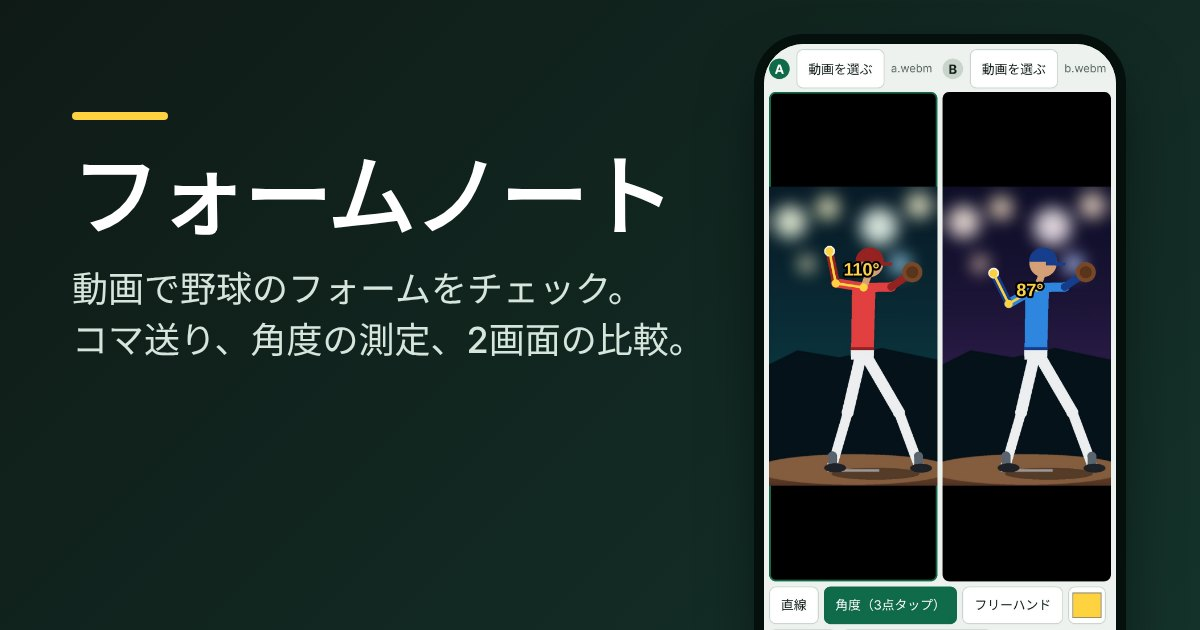
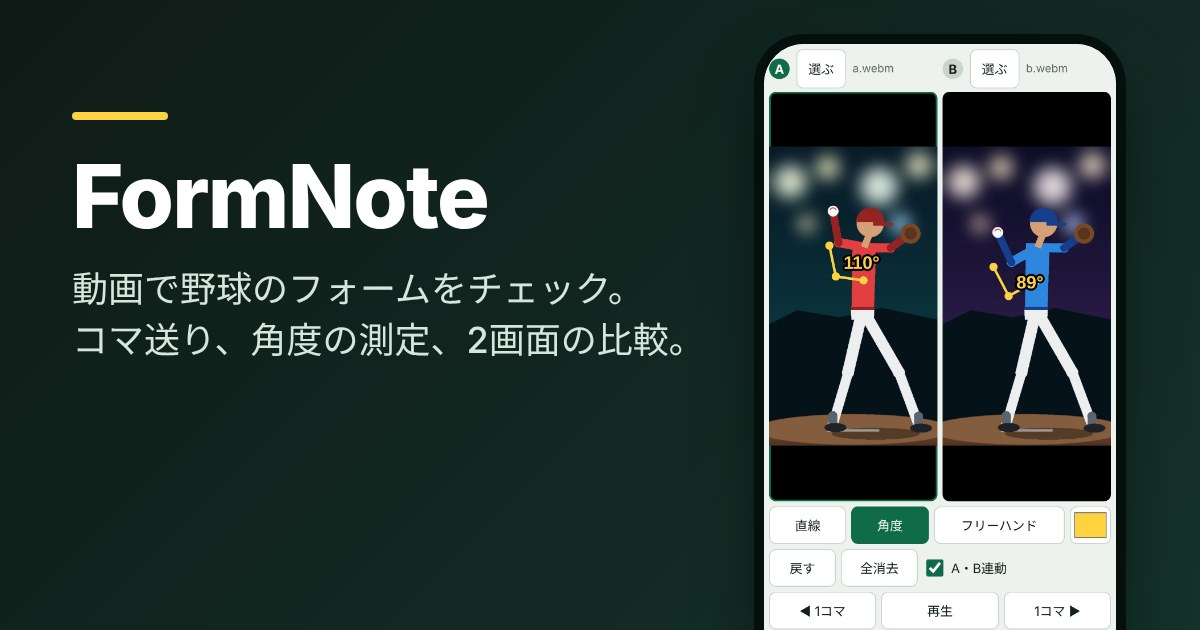
Add files via upload

diff --git a/index.html b/index.html
@@ -3,10 +3,10 @@
 <head>
 <meta charset="utf-8">
 <meta name="viewport" content="width=device-width, initial-scale=1, viewport-fit=cover">
-<title>フォームノート</title>
+<title>FormNote</title>
 <meta name="description" content="コマ送り、角度の測定、2画面での比較ができる無料の野球フォームチェックツール。動画は端末の中だけで処理されます。">
 <meta property="og:type" content="website">
-<meta property="og:title" content="フォームノート">
+<meta property="og:title" content="FormNote">
 <meta property="og:description" content="コマ送り、角度の測定、2画面での比較ができる無料の野球フォームチェックツール。動画は端末の中だけで処理されます。">
 <meta property="og:url" content="https://yatti3g-byte.github.io/form-note/">
 <meta property="og:image" content="https://yatti3g-byte.github.io/form-note/og.jpg">
@@ -120,7 +120,7 @@ details.draw:not([open]) .g-tools,details.draw:not([open]) .g-edit{display:none}
 </style>
 </head>
 <body>
-<div id="tutbn" hidden><span><span class="nb">はじめての方へ：</span><span class="nb">AIに相談するまでを</span><span class="nb">案内します</span></span><button class="go" id="tutgo">見てみる</button><button id="tutno" aria-label="閉じる">×</button></div>
+<div id="tutbn" hidden><span><span class="nb">はじめての方へ：</span><span class="nb">動画を比べてAIに相談するまでを</span><span class="nb">案内します</span></span><button class="go" id="tutgo">見てみる</button><button id="tutno" aria-label="閉じる">×</button></div>
 <div class="panes" id="panes"></div>
 
 <div class="ctl">
@@ -152,7 +152,7 @@ details.draw:not([open]) .g-tools,details.draw:not([open]) .g-edit{display:none}
     <button class="btn" id="snap">保存・共有</button>
     <a class="lnk" href="help.html" target="_blank" rel="noopener">使い方</a>
   </div>
-  <div class="g-tut"><span class="tl">はじめての方へ：</span><button class="lnk" id="tutbtn">1本の動画でAI相談</button><button class="lnk" id="tutbtn2">2画面で比べてAI相談</button></div>
+  <div class="g-tut"><span class="tl">はじめての方へ：</span><button class="lnk" id="tutbtn2">2画面で比べてAI相談</button><button class="lnk" id="tutbtn">1本の動画でAI相談</button></div>
   <details class="draw" id="draw">
     <summary>描画ツール（線・角度）</summary>
     <div class="g-tools" id="tools">
@@ -232,7 +232,7 @@ function nrm(p,e){
 const panes=[0,1].map(i=>{
   const el=document.createElement('section');el.className='pane';
   el.innerHTML='<div class="bar"><b>'+'AB'[i]+'</b><label class="btn" aria-label="動画を選ぶ"><span class="lf">動画を選ぶ</span><span class="ls">選ぶ</span><input type="file" accept="video/*" multiple hidden></label><span class="name">未選択</span><span class="nav" hidden><button type="button" class="btn" data-d="-1" aria-label="前の動画">◀</button><span class="cnt"></span><button type="button" class="btn" data-d="1" aria-label="次の動画">▶</button></span></div>'+
-  '<div class="stage"><video playsinline muted preload="metadata"></video><canvas></canvas><p class="empty">「動画を選ぶ」から<br>スマホ内の動画を開きます</p></div>';
+  '<div class="stage"><video playsinline muted preload="metadata"></video><canvas></canvas><p class="empty">「動画を選ぶ」から<br>スマホ内の動画を開きます'+(i===0?'<br>2本まとめて選ぶと、2画面で比べられます':'')+'</p></div>';
   $('#panes').append(el);
   const p={i,el,v:el.querySelector('video'),c:el.querySelector('canvas'),shapes:[],cur:null,pend:null,list:[],pos:0};
   p.x=p.c.getContext('2d');
@@ -248,7 +248,13 @@ const panes=[0,1].map(i=>{
     el.querySelector('.empty').hidden=true;
     p.shapes=[];p.pend=null;p.cur=null;p.anchor=null;setActive(i);navUI();ancUI();
   };
-  el.querySelector('input').onchange=e=>{const fs=[...e.target.files];if(!fs.length)return;p.list=fs;open(0);e.target.value=''};
+  p.open=open;
+  el.querySelector('input').onchange=e=>{const fs=[...e.target.files];e.target.value='';if(!fs.length)return;
+    /* 2本以上をまとめて選んだら、自動で2画面にして、1本目をA、2本目をBに入れる */
+    if(fs.length>=2&&(!compare||!panes.some(q=>q.v.getAttribute('src')))){
+      if(!compare)setCompare(true);
+      panes.forEach(q=>q.list=fs);panes[0].open(0);panes[1].open(1);setActive(0);return}
+    p.list=fs;open(0)};
   el.querySelectorAll('.nav button').forEach(bt=>bt.onclick=()=>open(p.pos+(+bt.dataset.d)));
   const bad=()=>{const m=el.querySelector('.empty');m.innerHTML='この動画は再生できません<br>この端末が対応していない形式の可能性があります';m.hidden=false};
   p.v.onerror=()=>{if(p.v.getAttribute('src'))bad()};
@@ -398,8 +404,10 @@ $('#seek').oninput=e=>{
     ts.forEach((p,j)=>{p.tgt=cs[j].o+(cs[j].n+d+0.5)/f;p.v.currentTime=p.tgt});
   });
 };
-$('#cmp').onclick=()=>{
-  compare=!compare;
+function setCompare(on){
+  compare=on;LK=null;
+  /* 2画面に入った直後は連動を外しておく。AとBを別々に同じ瞬間へ合わせられる(基準を決めると連動が入る) */
+  if(compare)$('#link').checked=false;
   panes[1].el.hidden=!compare;
   $('#panes').classList.toggle('two',compare);
   $('#pairrow').hidden=!compare;$('#linkw').hidden=!compare;
@@ -407,8 +415,9 @@ $('#cmp').onclick=()=>{
   $('#cmp').classList.toggle('on',compare);
   if(!compare&&active===1)setActive(0);
   $('#cmp').textContent=compare?'1画面に戻す':'2画面で比較';
-  layout();
-};
+  layout();playLabel();
+}
+$('#cmp').onclick=()=>setCompare(!compare);
 panes[1].el.hidden=true;
 $('#link').addEventListener('change',()=>{LK=null;playLabel()});$('#cmp').addEventListener('click',()=>{LK=null;playLabel()});
 document.querySelectorAll('[data-tool]').forEach(b=>b.onclick=()=>{
@@ -598,7 +607,7 @@ $('#aisend').onclick=async()=>{
   m.textContent=(await cp)?'質問文をコピーしました。上の画像を長押しして保存し、AIアプリで画像と質問文を貼り付けてください。':'質問文を長押しでコピーし、上の画像を長押しで保存して、AIアプリに貼り付けてください。';
 };
 const APP_HINT='QRコードを読み取ってアプリを開く';
-const APP_NAME='フォームノート';
+const APP_NAME='FormNote';
 /* 保存画像の下に、アプリ名とリンクの帯を付ける（共有された画像からアプリへつなぐため） */
 /* QRコード生成（外部ライブラリなし）。バイトモード・誤り訂正L・バージョン1〜4（URL 78文字まで）。収まらない場合は null */
 function qrMatrix(text){
@@ -767,11 +776,8 @@ const TUTS={basic:[
  {t:'年齢・左右・悩みを書く',m:'例：「小5 右打ち 振り遅れる」「40代 草野球 右打ち 差し込まれる」。書かなくても送れますが、書くとAIの答えが具体的になります。',sel:()=>'#aictx'},
  {t:'AIアプリに送る',m:'このボタンで質問文がコピーされ、共有画面が開きます。ChatGPT や Claude など、お使いのAIアプリを選び、画像と質問文を送ってください。共有に出ないときは、画像を長押しで保存して、質問文を貼り付けます。',sel:()=>'#aisend',last:true}
 ],cmp:[
- {t:'2画面にする',m:'2つの動画を並べて比べます。自分と見本、先月の自分と今日の自分、などです。',sel:()=>'#cmp',done:()=>compare,act:()=>$('#cmp').click(),actlabel:'2画面にする'},
- {t:'Aの動画を選ぶ',m:'Aには、見てほしい動画を選びます。例：今日の自分のスイング。「どちらが自分か」は決まっていません。あとでAとBの関係を選べます。',sel:()=>'#panes .pane:nth-of-type(1) .bar label',done:()=>panes[0].v.videoWidth>0,need:true},
- {t:'Bの動画を選ぶ',m:'Bには、比べたい動画を選びます。例：先月の自分、お手本にしたい人の動画。AとBは、同じ動作（打つ・投げる）を、同じ向き（正面・横など）から撮った動画だと、比べやすくなります。',sel:()=>'#panes .pane:nth-of-type(2) .bar label',done:()=>panes.every(p=>p.v.videoWidth>0),need:true},
- {t:'「A・B連動」を外す',m:'初めは、AとBが連動して動きます。AとBを別々に合わせるため、まずチェックを外します。',sel:()=>'#linkw',done:()=>!$('#link').checked,act:()=>{if($('#link').checked)$('#link').click()},actlabel:'外す'},
- {t:'AとBを、同じ瞬間に合わせる',m:'Aの画面をタップして選び、下の ◀ ▶ やスライダーで、見たい瞬間（例：ボールを打つ瞬間）に合わせます。次にBの画面をタップして選び、Bも同じ動作の瞬間に合わせます。',sel:()=>['#panes','.g-play','.g-seek']},
+ {t:'比べたい動画を2本選ぶ',m:'「動画を選ぶ」を押して、比べたい動画を2本まとめて選びます。1本目がA、2本目がBになり、自動で2画面になります。自分と見本、先月の自分と今日の自分、などです。同じ動作（打つ・投げる）を、同じ向き（正面・横など）から撮った動画だと、比べやすくなります。',sel:()=>'#panes .pane:nth-of-type(1) .bar label',done:()=>compare&&panes.every(p=>p.v.videoWidth>0),need:true,hint:'2本選ぶと次へ進めます'},
+ {t:'AとBを、同じ瞬間に合わせる',m:'最初は、AとBは別々に動きます。Aの画面をタップして選び、下の ◀ ▶ やスライダーで、見たい瞬間（例：ボールを打つ瞬間）に合わせます。次にBの画面をタップして選び、Bも同じ動作の瞬間に合わせます。',sel:()=>['#panes','.g-play','.g-seek']},
  {t:'基準を決める',m:'2つが同じ瞬間になったら「ここを基準に同期」を押します。ここが「そろえた場所」になり、連動も自動で入ります。',sel:()=>'#anchor',done:()=>panes.every(p=>p.anchor!=null),act:()=>$('#anchor').click(),actlabel:'基準にする'},
  {t:'連動して動かす',m:'これで、コマ送りやスライダーで、2つが同時に動きます。ズレは「基準 ±Nコマ」と表示されます。「基準へ戻る」で、そろえた場所に戻れます。',sel:()=>['.g-play','.g-seek']},
  {t:'見てほしい瞬間で止めて「AIに相談」',m:'相談したい場面で止めて、押します。AとBが左右に並んだ、前後4組の画像が作られます。',sel:()=>'#aimain',done:()=>!$('#snapbox').hidden&&!$('#aipanel').hidden,act:()=>$('#aimain').click(),actlabel:'押してみる'},
@@ -830,7 +836,7 @@ function tutEnd(){
 }
 $('#tutbtn').onclick=()=>tutStart('basic');
 $('#tutbtn2').onclick=()=>tutStart('cmp');
-$('#tutgo').onclick=()=>tutStart('basic');
+$('#tutgo').onclick=()=>tutStart('cmp');
 $('#tutno').onclick=()=>{tutLS();$('#tutbn').hidden=true};
 addEventListener('resize',tutPlace);
 try{if(!localStorage.getItem('fn_tut'))$('#tutbn').hidden=false}catch(e){$('#tutbn').hidden=false}

diff --git a/help.html b/help.html
@@ -3,7 +3,7 @@
 <head>
 <meta charset="utf-8">
 <meta name="viewport" content="width=device-width, initial-scale=1">
-<title>フォームノートの使い方</title>
+<title>FormNoteの使い方</title>
 <style>
 :root{--bg:#eef2ee;--panel:#fff;--line:#c9d4cc;--ink:#14201c;--mute:#4f6158;--acc:#0f6b4a;--accInk:#fff;color-scheme:light}
 @media (prefers-color-scheme:dark){:root:not([data-theme="light"]){--bg:#0f1a16;--panel:#18251f;--line:#2b3d35;--ink:#e6efe9;--mute:#9db0a5;--acc:#ffd23f;--accInk:#14201c;color-scheme:dark}}
@@ -54,12 +54,12 @@ footer{margin-top:2.4rem;color:var(--mute);font-size:.92rem}
 <body>
 <main>
 <h1>2つの動画を、<wbr>インパクトでそろえて<wbr>見比べる</h1>
-<p class="lead">フォームノートは、野球のフォームを動画で確認できる無料のツールです。自分とお手本、先週と今週など、2つの動画を同じ瞬間にそろえて、<span class="nb">1コマ</span>ずつ<span class="nb">見比べられます。</span>動画はお使いの端末の中だけで処理されます。</p>
+<p class="lead">FormNoteは、野球のフォームを動画で確認できる無料のツールです。自分とお手本、先週と今週など、2つの動画を同じ瞬間にそろえて、<span class="nb">1コマ</span>ずつ<span class="nb">見比べられます。</span>動画はお使いの端末の中だけで処理されます。</p>
 <a class="btn" href="./">アプリを開く</a>
 
-<img class="shot" src="screenshot.jpg" width="1236" height="2745" alt="2つの投球動画を左右に並べ、それぞれの肘の角度（110度と89度）を測っているフォームノートの画面。基準の瞬間から3コマ進んだ状態で、「基準 +3コマ」と表示されている。">
+<img class="shot" src="screenshot.jpg" width="1236" height="2745" alt="2つの投球動画を左右に並べ、それぞれの肘の角度（110度と89度）を測っているFormNoteの画面。基準の瞬間から3コマ進んだ状態で、「基準 +3コマ」と表示されている。">
 <p class="cap">2つの動画を同じ基準でそろえて、<span class="nb">3コマ</span>進めたところ。サンプルの動画はイラストで、実在の選手ではありません。</p>
-<h2>フォームノートの強み</h2>
+<h2>FormNoteの強み</h2>
 <div class="feat"><div class="card"><span class="no">1</span><h3>インパクトで<wbr>そろえて比べる</h3><p>A・Bそれぞれで、ミートやリリースの瞬間に止めて「ここを基準に同期」を押すだけ。そこを0として、前後を同時に<span class="nb">1コマ</span>ずつ動かせます。撮り始めのタイミングが違う動画でも、同じ瞬間で見比べられます。</p></div><div class="card"><span class="no">2</span><h3>1回押すと、<wbr>ちょうど<span class="nb">1コマ</span></h3><p>30・120・<span class="nb">240fps</span>の動画で、1回押すと<span class="nb">1コマ</span>だけ進むように作っています。速いスイングや投球も、飛ばさずに<span class="nb">1コマ</span>ずつ追えます。書き込みは画面に固定されるので、基準線に対する体の動きを確かめられます。</p></div><div class="card"><span class="no">3</span><h3>比べた結果を、<wbr>共有・相談</h3><p>画面の「AIに相談」を押すと、前後<span class="nb">4枚</span>の画像と質問文（良い点・気になる点・改善ドリル）が用意され、お好きなAIアプリに送れます。LINEなどで共有する「保存・共有」もあります。</p></div></div>
 <ul class="chips"><li>動画は端末の外に出ません</li><li>登録・料金なし</li><li>ブラウザで開くだけ</li></ul>
 <h2>2つの動画を比べる（いちばんの使い方）</h2>
@@ -106,7 +106,7 @@ footer{margin-top:2.4rem;color:var(--mute);font-size:.92rem}
 
 
 <h2>開発を支援する</h2>
-<p>フォームノートは、無料で使えるツールです。役に立ったと感じたら、コーヒー1杯分の支援をいただけると、開発の励みになります（任意です。支援しなくても、すべての機能をお使いいただけます）。</p>
+<p>FormNoteは、無料で使えるツールです。役に立ったと感じたら、コーヒー1杯分の支援をいただけると、開発の励みになります（任意です。支援しなくても、すべての機能をお使いいただけます）。</p>
 <a class="btn" href="https://buymeacoffee.com/formnote" target="_blank" rel="noopener">☕ 開発を支援する</a>
 
 <h2>よくある質問</h2>
@@ -115,7 +115,7 @@ footer{margin-top:2.4rem;color:var(--mute);font-size:.92rem}
 <div class="note"><b>コーチ・保護者の方へ。</b>数値は、他の選手との比較ではなく、その子自身の過去の動画との比較に使いましょう。投球数や休養は、所属する団体のガイドラインに従ってください。</div>
 
 <p><a href="./">アプリに戻る</a></p>
-<footer>フォームノートは無料のツールです。サンプルの画像はイラストです。</footer>
+<footer>FormNoteは無料のツールです。サンプルの画像はイラストです。</footer>
 </main>
 </body>
 </html>
